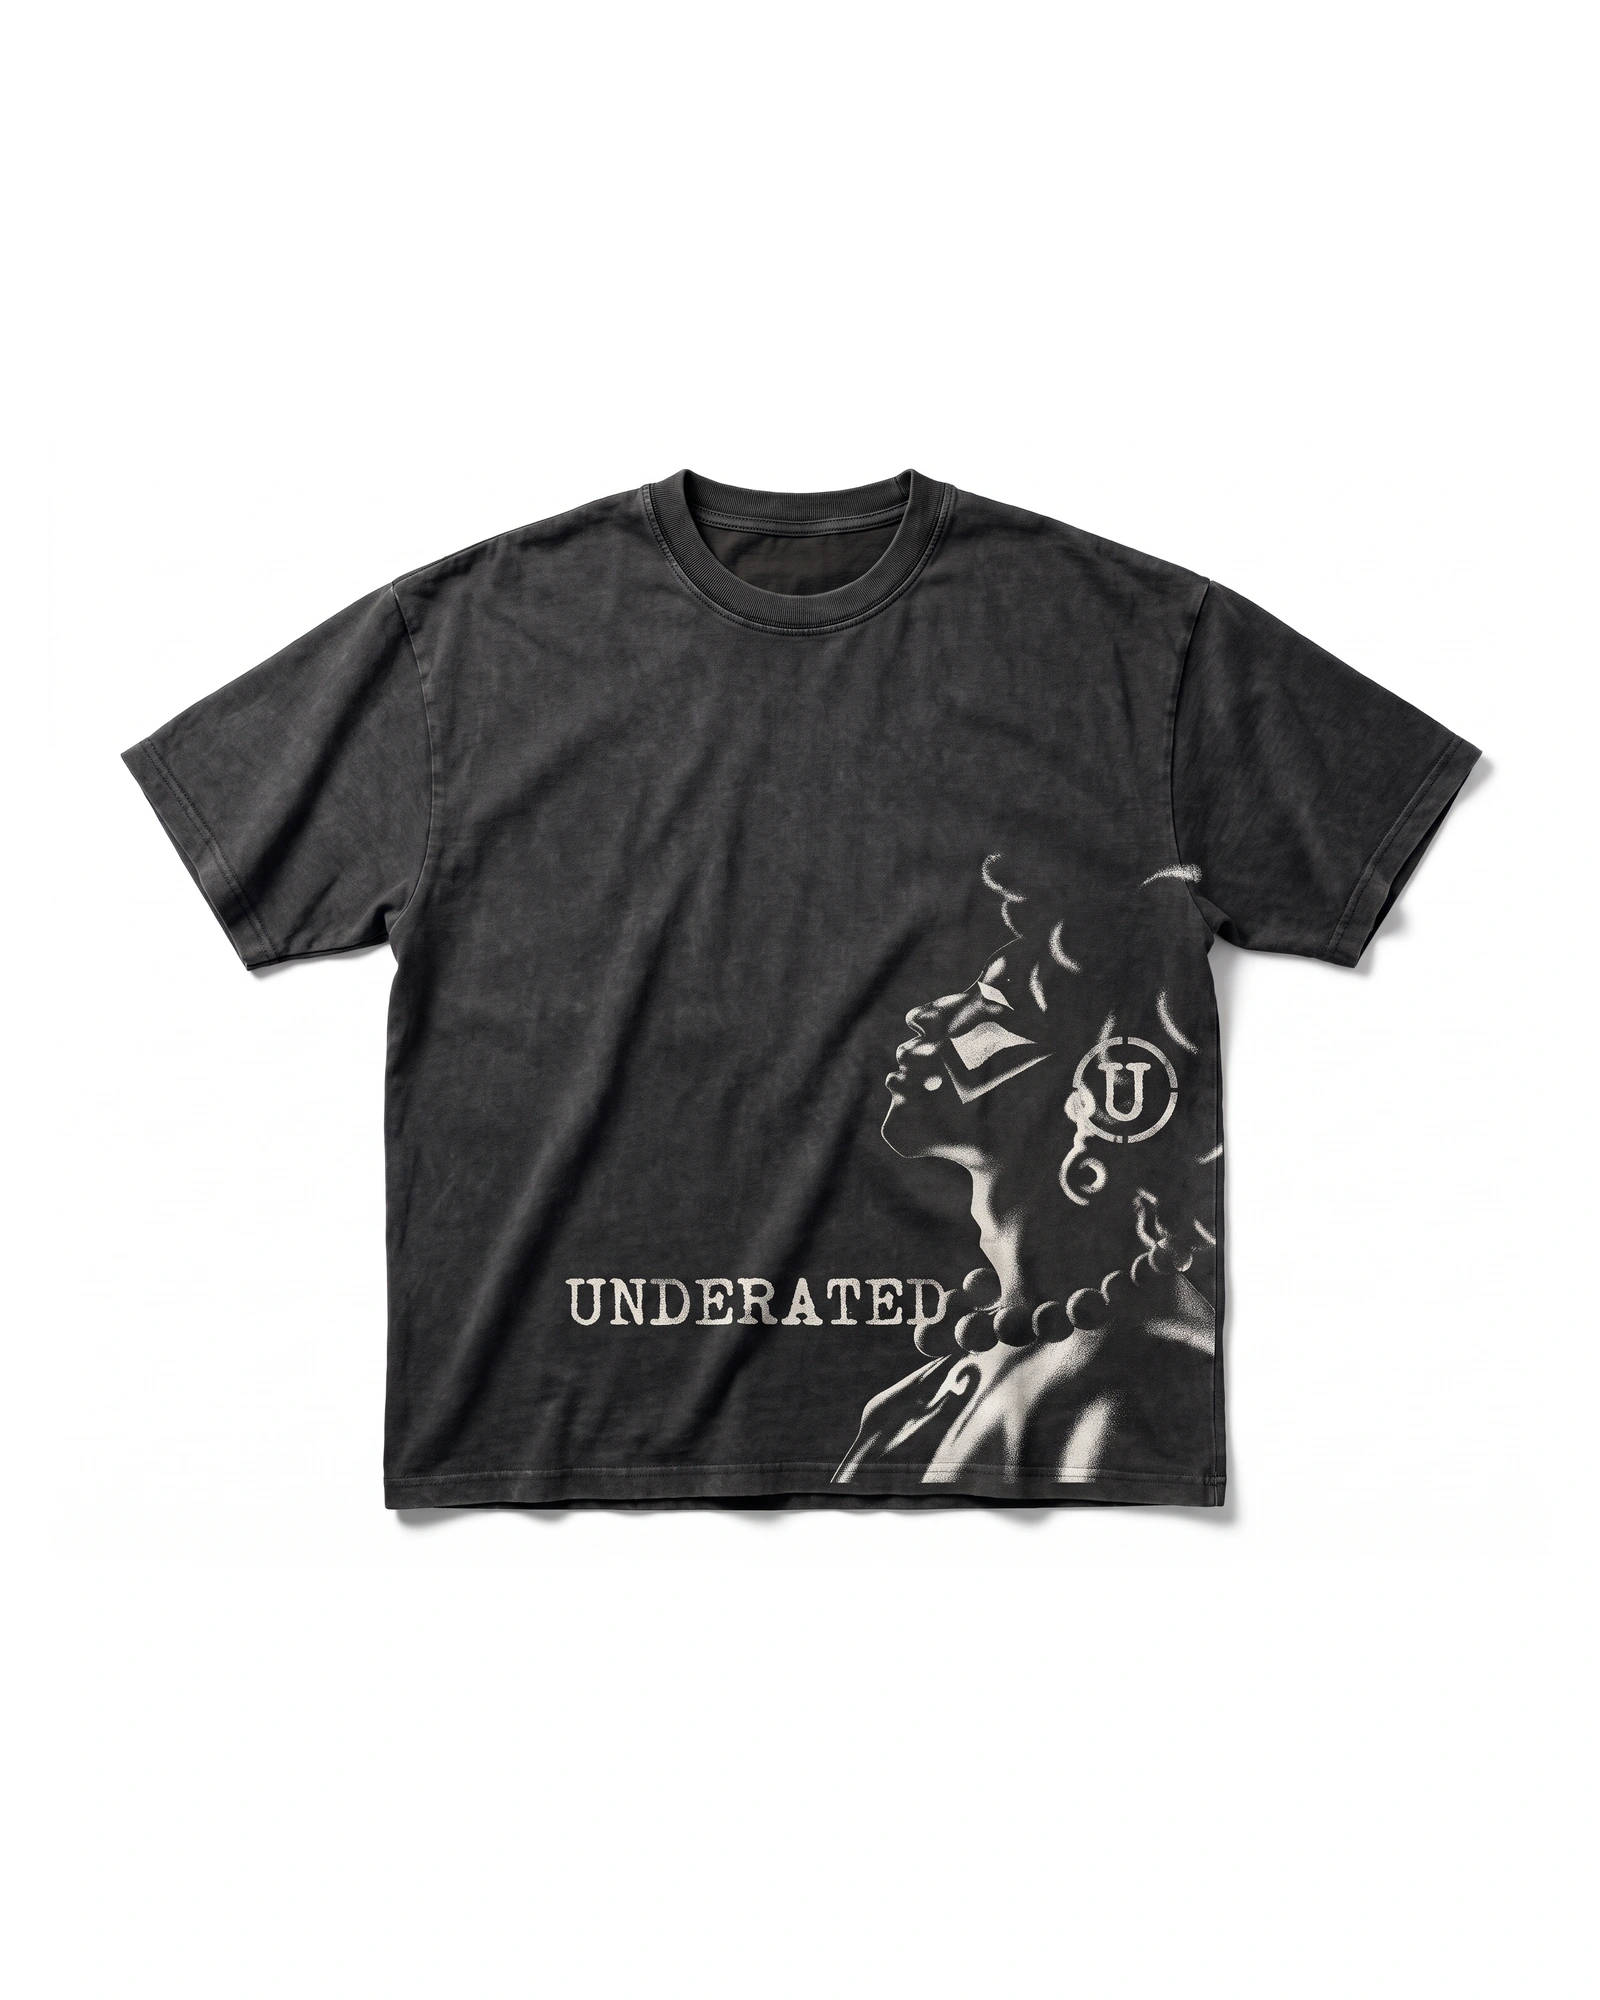
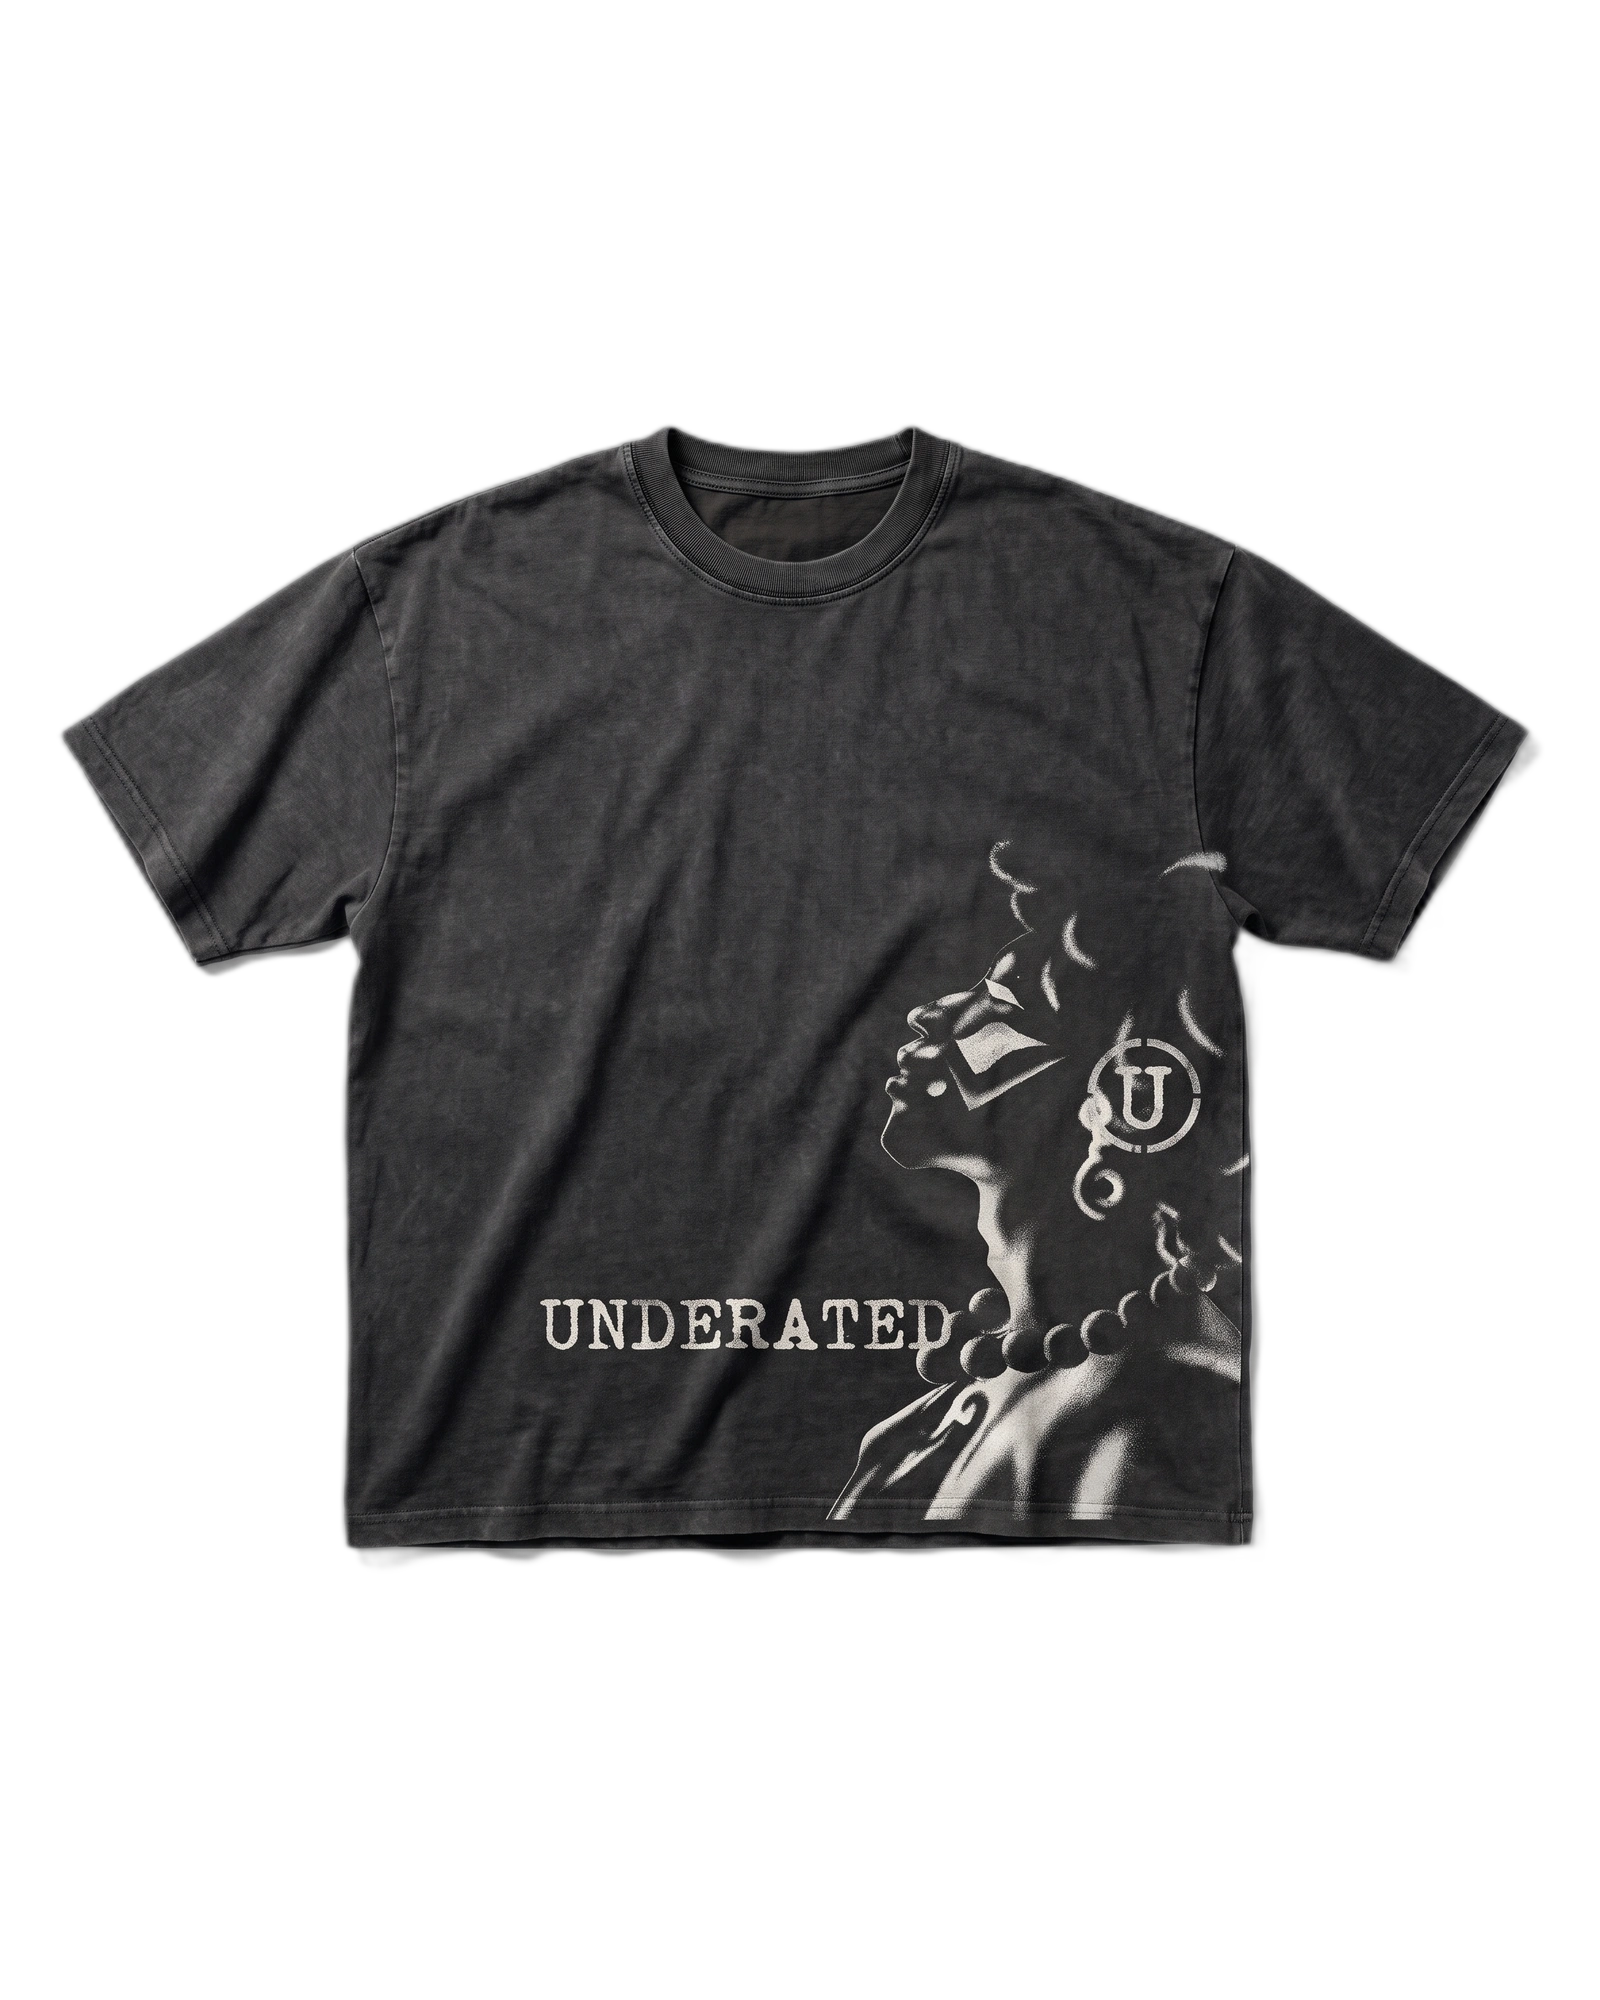
Remove white background on product flat lays for transparent floating display and increase garment scale

Changed region(s): [[0.0312, 0.217, 0.9688, 0.806], [0.8125, 0.372, 0.8438, 0.434]]

diff --git a/components/ProductView.tsx b/components/ProductView.tsx
@@ -21,11 +21,11 @@ export default function ProductView({ p }: { p: Product }) {
   return (
     <div className="grid gap-8 px-5 pb-8 md:grid-cols-[1fr_480px] md:gap-24 md:px-16">
       <div className="flex flex-col gap-3 md:flex-row-reverse md:gap-4">
-        <div className="relative aspect-square flex-1 bg-ph"><Pic src={p.images[img]} alt={p.title} sizes="(min-width:768px) 50vw, 100vw" priority /></div>
+        <div className="relative aspect-[4/5] flex-1 bg-transparent"><Pic src={p.images[img]} alt={p.title} sizes="(min-width:768px) 50vw, 100vw" priority contain /></div>
         <div className="flex gap-3 md:w-24 md:flex-col">
           {p.images.map((s, i) => (
-            <button key={s} onClick={() => setImg(i)} aria-label={`Image ${i + 1}`} className={`relative h-1 w-10 md:aspect-square md:h-auto md:w-full ${i === img ? "bg-red md:outline md:outline-2 md:outline-red" : "bg-mute md:bg-ph"}`}>
-              <span className="hidden md:block"><Pic src={s} alt="" sizes="96px" /></span>
+            <button key={s} onClick={() => setImg(i)} aria-label={`Image ${i + 1}`} className={`relative h-1 w-10 md:aspect-[4/5] md:h-auto md:w-full ${i === img ? "bg-red md:outline md:outline-2 md:outline-red" : "bg-mute md:bg-transparent"}`}>
+              <span className="hidden md:block"><Pic src={s} alt="" sizes="96px" contain /></span>
             </button>
           ))}
         </div>

diff --git a/components/ProductCard.tsx b/components/ProductCard.tsx
@@ -15,23 +15,23 @@ export default function ProductCard({ p }: { p: Product }) {
 
   return (
     <article className="group isolate relative flex flex-col gap-2.5 text-start">
-      {/* ── 4:5 Portrait Studio Image Container (bolapsd style) ── */}
+      {/* ── 4:5 Portrait Studio Image Container ── */}
       <Link
         href={`/products/${p.handle}`}
-        className="relative block aspect-[4/5] w-full overflow-hidden bg-white transition-colors rounded-[2px]"
+        className="relative block aspect-[4/5] w-full overflow-hidden bg-transparent transition-colors rounded-[2px]"
         aria-label={p.title}
       >
-        {/* Front Image */}
+        {/* Front Image (Transparent Cutout) */}
         <Image
           src={frontImage}
           alt={p.title}
           fill
           sizes="(min-width: 1024px) 25vw, (min-width: 640px) 33vw, 50vw"
           unoptimized
-          className={`object-cover object-center transition-all duration-500 ${
+          className={`object-contain object-center transition-all duration-500 ${
             backImage
               ? "group-hover:opacity-0"
-              : "group-hover:scale-[1.05]"
+              : "group-hover:scale-105"
           }`}
         />
 

diff --git a/components/Pic.tsx b/components/Pic.tsx
@@ -1,4 +1,28 @@
 import Image from "next/image";
-export default function Pic({ src, alt, sizes, priority }: { src?: string; alt: string; sizes: string; priority?: boolean }) {
-  return src ? <Image src={src} alt={alt} fill sizes={sizes} priority={priority} className="object-cover" /> : <div className="h-full w-full bg-ph" />;
+export default function Pic({
+  src,
+  alt,
+  sizes,
+  priority,
+  contain,
+}: {
+  src?: string;
+  alt: string;
+  sizes: string;
+  priority?: boolean;
+  contain?: boolean;
+}) {
+  return src ? (
+    <Image
+      src={src}
+      alt={alt}
+      fill
+      sizes={sizes}
+      priority={priority}
+      unoptimized
+      className={contain ? "object-contain" : "object-cover"}
+    />
+  ) : (
+    <div className="h-full w-full bg-ph" />
+  );
 }
